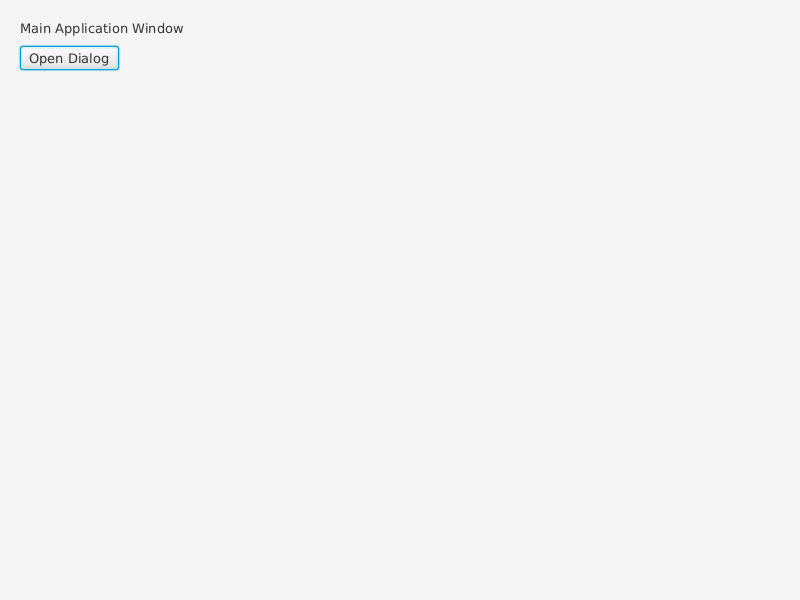
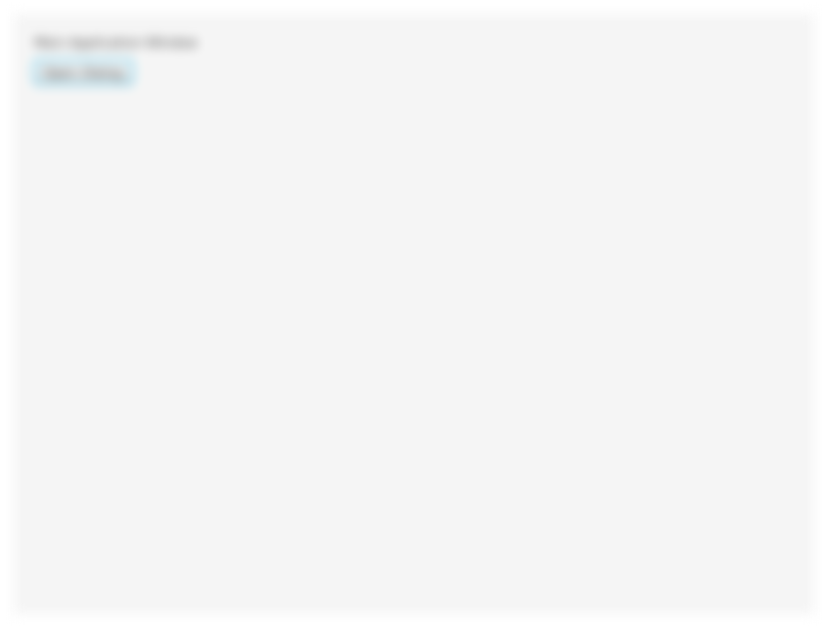
chore: configure Monocle headless platform for TestFX and update version compatibility

Changed region(s): [[0.0, 0.03, 0.25, 0.15]]

diff --git a/src/main/java/com/econovafx/modules/core/ui/util/ModernDialog.java b/src/main/java/com/econovafx/modules/core/ui/util/ModernDialog.java
@@ -349,10 +349,26 @@ public class ModernDialog {
             dialogStage.close();
             // Exit nested event loop if showAndWait is waiting
             if (nestedLoopKey != null) {
-                Platform.exitNestedEventLoop(nestedLoopKey, null);
+                try {
+                    Platform.exitNestedEventLoop(nestedLoopKey, null);
+                } catch (IllegalArgumentException e) {
+                    // Event loop already exited or key invalid - ignore in test environments
+                    if (!"test".equals(System.getProperty("env"))) {
+                        System.err.println("Warning: Could not exit nested event loop: " + e.getMessage());
+                    }
+                }
             } else {
                 // Fallback: try using dialogStage as key (for backward compatibility with deprecated closeDialog)
-                Platform.runLater(() -> Platform.exitNestedEventLoop(dialogStage, null));
+                Platform.runLater(() -> {
+                    try {
+                        Platform.exitNestedEventLoop(dialogStage, null);
+                    } catch (IllegalArgumentException e) {
+                        // Event loop already exited or key invalid - ignore in test environments
+                        if (!"test".equals(System.getProperty("env"))) {
+                            System.err.println("Warning: Could not exit nested event loop (fallback): " + e.getMessage());
+                        }
+                    }
+                });
             }
         });
         parallel.play();

diff --git a/src/test/java/com/econovafx/modules/core/ui/util/ModernDialogVisualTest.java b/src/test/java/com/econovafx/modules/core/ui/util/ModernDialogVisualTest.java
@@ -90,12 +90,15 @@ public class ModernDialogVisualTest extends ApplicationTest {
     public void testModernDialogClosed() throws Exception {
         // Open dialog
         clickOn("Open Dialog");
-        Thread.sleep(300);
+        Thread.sleep(500);
         
-        // Close dialog and capture on FX thread
+        // Close dialog by clicking close button within the dialog context
         interact(() -> {
-            // Close dialog by clicking close button
-            clickOn("Close");
+            // Find and click the close button in the dialog
+            Button closeButton = lookup(".button").queryAs(Button.class);
+            if (closeButton != null && "Close".equals(closeButton.getText())) {
+                closeButton.fire();
+            }
         });
         Thread.sleep(500);
         

diff --git a/src/main/java/module-info.java b/src/main/java/module-info.java
@@ -86,6 +86,7 @@ module econonovafx {
     requires java.desktop;
     
     provides io.ebean.config.EntityClassRegister with com.econovafx.EbeanEntityRegister;
+    provides io.avaje.inject.spi.InjectExtension with com.econovafx.EconovafxModule;
     
     // Open entity model packages to Ebean for reflective access (e.g. @DbEnumValue
     // enum introspection in io.ebean.core). Without these, io.ebean.core throws
